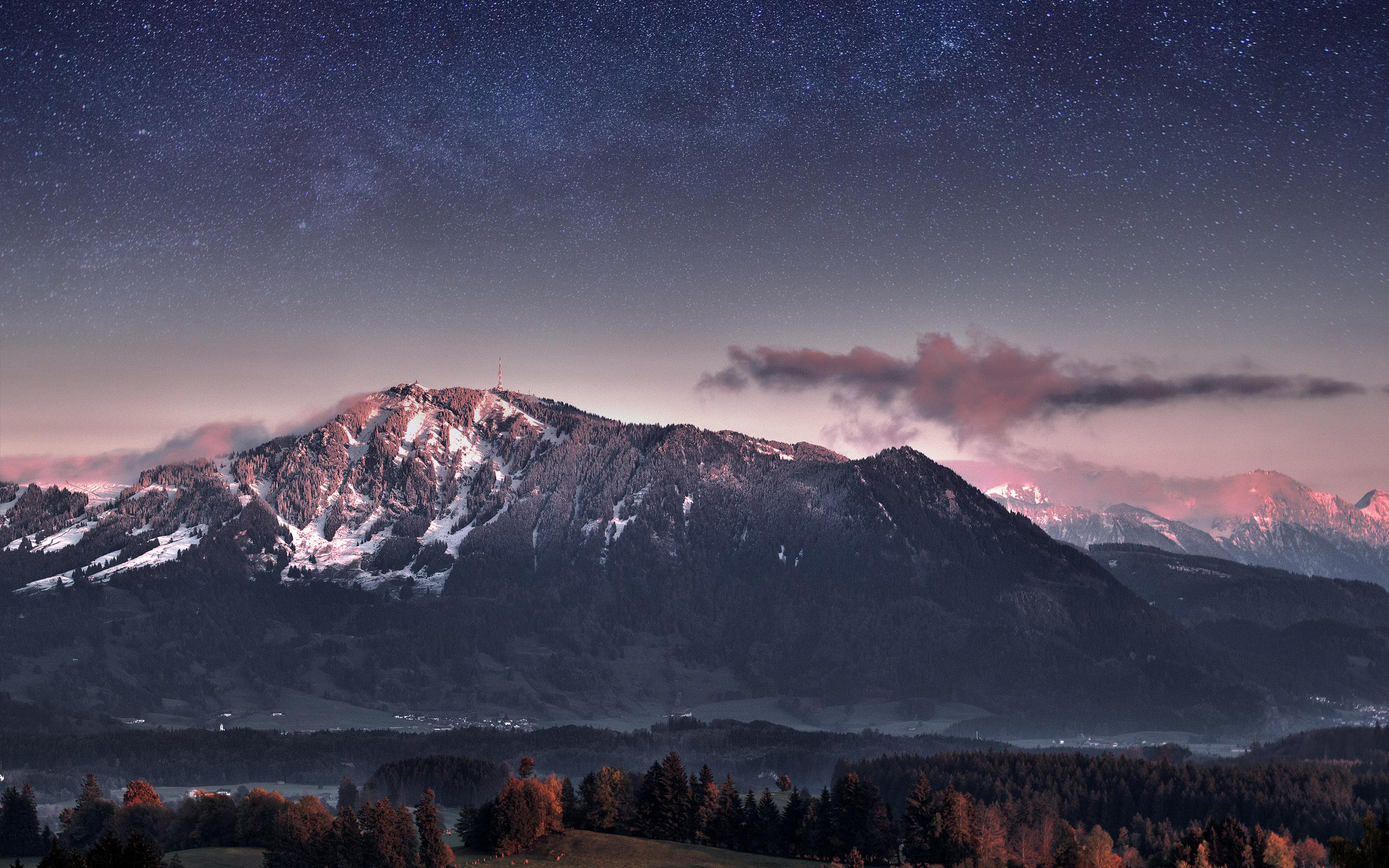
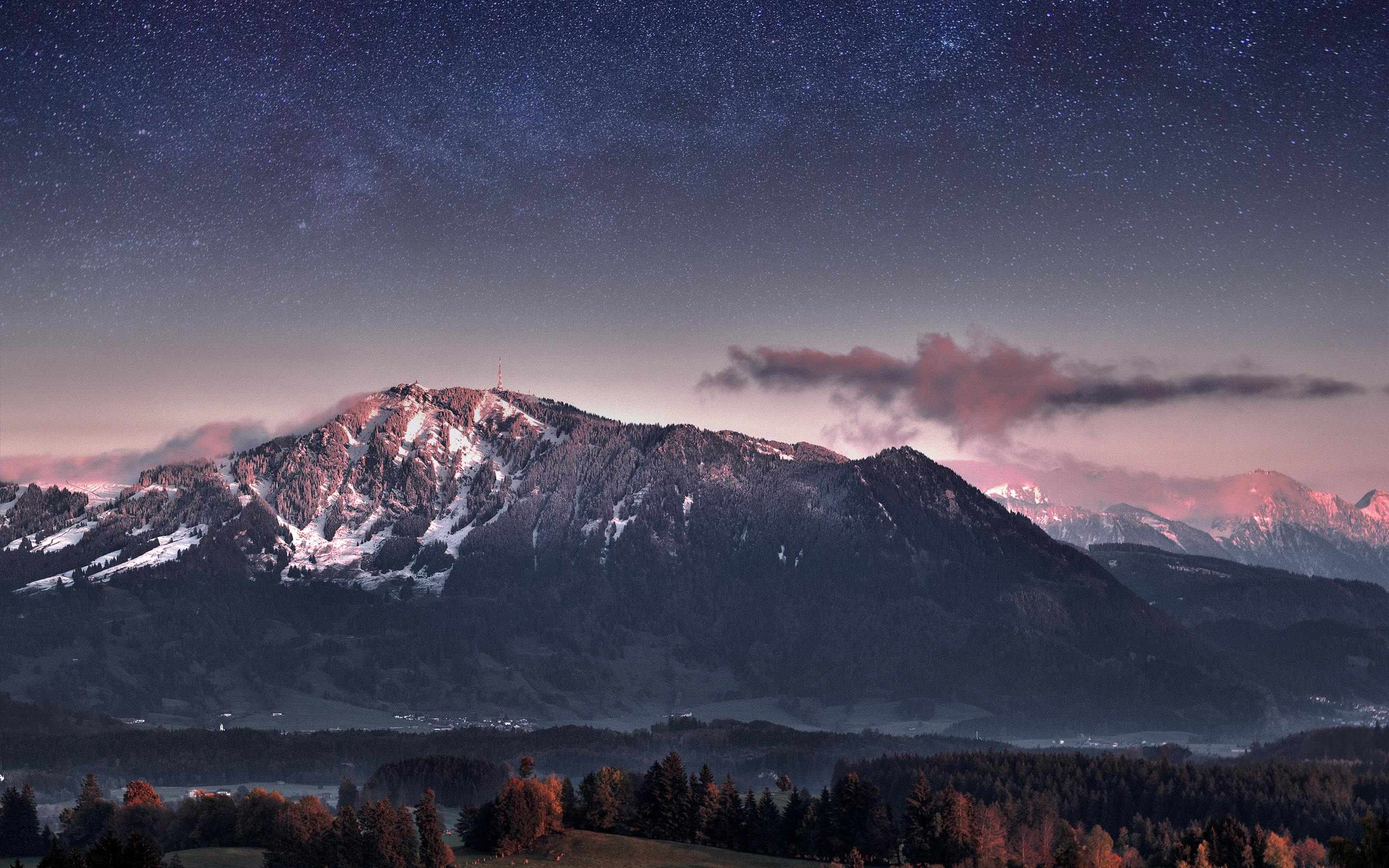
修改封面文件，缩小图片大小

diff --git a/_layouts/home.html b/_layouts/home.html
@@ -27,7 +27,7 @@ show_title: false
 articles:
   data_source: paginator.posts
   article_type: BlogPosting
-  show_cover: false
+  show_cover: true
   show_excerpt: true
   show_readmore: true
   show_info: true

diff --git a/about.md b/about.md
@@ -35,7 +35,7 @@ titles:
   # @end locale config
 key: page-about
 ---
-# 关于我的一些个人信息
+
 ## 我的一些联系方式
 - 电话：15084998472
 - 邮箱：socofels@163.com
